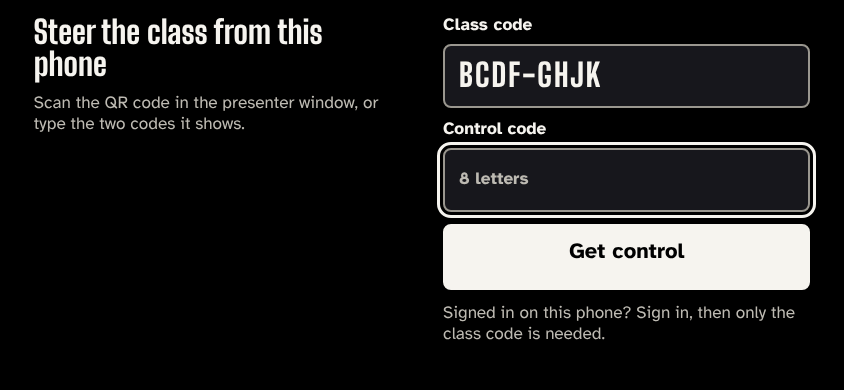
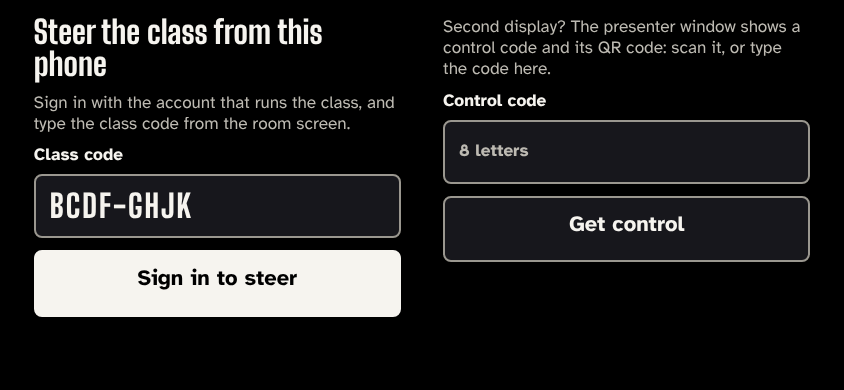
docs(design): companion review fixes: one-screen sign-in, new code after drop, guard-word gaps
Sign-in plus the room screen's class code is the usual way in; the control code and its QR
are second-display only and never on the room screen. Two phones already asks for a new code.
Contract gaps mark guard-word collisions as open questions. No-answer, interpolation, refused
hello, fallback errors and ADR 0005 section 8 hardening are written out.

Claude-Session: https://claude.ai/code/session_01V8DoTxwfzpAUiHqVx7SjRn

diff --git a/docs/design/mockups/companion-pages.js b/docs/design/mockups/companion-pages.js
@@ -99,35 +99,38 @@ add('worst-wide', 'Companion: worst case, wide cue', 'Worst case by width: a 120
   run(WORST() + cue(WIDE_CUE) + runKeys({ follow: true }), 'tighter'));
 
 // ---------- Getting control, and losing it ----------
-const SIGNIN = p('Signed in on this phone? Sign in, then only the class code is needed.', true);
-add('code', 'Companion: enter the codes', 'State: /control opened without a code (the QR code fills both fields and goes straight to "connecting"). Not signed in.',
-  page(h1('Steer the class from this phone') + p('Scan the QR code in the presenter window, or type the two codes it shows.', true),
-    field('Class code', { ph: '8 letters', value: 'BCDF-GHJK' }) + field('Control code', { ph: '8 letters', focus: true })
-    + key('control', 'Get control', { main: true, full: true }) + SIGNIN));
+// One screen first (plan section 3): the usual way in is sign-in plus the class code the room
+// screen shows. The control code exists only with a second display, in the presenter window.
+const SECOND = p('Second display? The presenter window shows a control code and its QR code: scan it, or type the code here.', true);
+add('code', 'Companion: get control', 'State: /control without a site session. Opened plain, or from a QR code of /control#<join code>, which only fills the class code. Sign-in is the way in; the control code is the second-display option.',
+  page(h1('Steer the class from this phone') + p('Sign in with the account that runs the class, and type the class code from the room screen.', true)
+    + field('Class code', { ph: '8 letters', value: 'BCDF-GHJK' }) + key('sign_in', 'Sign in to steer', { main: true, full: true }),
+    SECOND + field('Control code', { ph: '8 letters' }) + key('control', 'Get control', { full: true })));
 add('code-signed-in', 'Companion: signed in', 'State: /control with a site session. The class code names the class; the sign-in gives control.',
   page(h1('Steer the class from this phone') + T('label', 'Signed in as ana@example.com', 2, ' class="who"'),
     field('Class code', { ph: '8 letters', focus: true }) + key('control', 'Steer this class', { main: true, full: true })
-    + p('The class code is in the presenter window. Control needs the account that runs the class.', true)));
-add('code-wrong', 'Companion: code did not work', 'State: invalid_code from POST /api/live/control (unknown class, wrong, used or expired code: one answer). cannot_control on the sign-in route reads alike.',
-  page(h1('Steer the class from this phone') + p('Scan the QR code in the presenter window, or type the two codes it shows.', true),
-    field('Class code', { value: 'BCDF-GHJK' }) + field('Control code', { value: 'LMNP-QRST', error: 'That did not work. A control code works once, for 2 minutes. Ask the computer for a new one.' })
+    + p('The class code is on the room screen. Control needs the account that runs the class.', true)));
+add('code-wrong', 'Companion: code did not work', 'State: invalid_code from POST /api/live/control (unknown class, wrong, used or expired code: one answer). cannot_control on the sign-in route reads alike, with its own words.',
+  page(h1('Steer the class from this phone') + p('Sign in with the account that runs the class, and type the class code from the room screen.', true)
+    + field('Class code', { value: 'BCDF-GHJK' }) + key('sign_in', 'Sign in to steer', { main: true, full: true }),
+    SECOND + field('Control code', { value: 'LMNP-QRST', error: 'That did not work. A control code works once, for 2 minutes. Ask the computer for a new one.' })
+    + key('control', 'Get control', { full: true })));
+add('full', 'Companion: two phones already', 'State: controllers_full from POST /api/live/control: the code was right, both places are held. Dropping a phone ends that code (ADR 0005 section 3), so the field is cleared for a new one.',
+  page(h1('Two phones already steer this class') + p('The class goes on. Drop a phone on the computer, then ask it for a new control code.', true),
+    field('Class code', { value: 'BCDF-GHJK' }) + field('Control code', { ph: 'New code, 8 letters', focus: true })
     + key('control', 'Get control', { main: true, full: true })));
-add('full', 'Companion: two phones already', 'State: controllers_full from POST /api/live/control: the code was right, both places are held. The code is not used up.',
-  page(h1('Two phones already steer this class') + p('The class goes on. Drop a phone on the computer, then use the code again.', true),
-    field('Class code', { value: 'BCDF-GHJK' }) + field('Control code', { value: 'LMNP-QRST' })
-    + key('control', 'Try again', { main: true, full: true })));
 add('connecting', 'Companion: connecting', 'State: a controller token was given; the WebSocket is opening and waiting for the first state message.',
   page(h1('Connecting to the class') + `<div class="work" role="status">${T('minor', 'Getting the class from the computer', 2)}</div>`,
     key('cancel', 'Cancel', { full: true })));
 add('lost', 'Companion: not connected', 'State: no connection for 10 s. No countdown. The phone tries again by itself with its token; the class goes on on the computer.',
   page(plate('Not connected', 'The class goes on on the computer. Trying again…') + gel(4, 'Threshold', [], { down: true, label: 'Last seen 0:12 ago' }),
     key('reconnect', 'Try again now', { full: true }) + p('Nothing you press here reaches the class until the phone is back.', true)));
-add('dropped', 'Companion: control ended', 'State: ended, reason dropped (the computer freed this phone\'s place), or the token was refused on reconnect (the sign-in ended).',
-  page(h1('This phone no longer steers the class') + p('The computer ended its control, or your sign-in ended. The class goes on.', true),
-    key('get_control', 'Get control again', { full: true }) + p('You need a new control code from the computer, or your sign-in.', true)));
-add('ended', 'Companion: session ended', 'State: ended, reason host_ended, revoked or expired.',
-  page(h1('The class session has ended') + p('There is nothing more to steer.', true),
-    key('get_control', 'Steer another class', { full: true })));
+add('dropped', 'Companion: control ended', 'State: ended, reason dropped: the computer freed this phone\'s place.',
+  page(h1('This phone no longer steers the class') + p('The computer ended its control. The class goes on.', true),
+    key('get_control', 'Get control again', { full: true }) + p('Sign in again, or ask the computer for a new control code.', true)));
+add('ended', 'Companion: session ended', 'State: ended, reason host_ended, revoked or expired; or the token refused on reconnect (the live process restarted, or the sign-in ended: ADR 0005 section 6).',
+  page(h1('The class session has ended') + p('There is nothing more to steer from this phone. If the class is still running, get control again.', true),
+    key('get_control', 'Get control again', { full: true })));
 
 const NAMES = Object.keys(pages);
 if (require.main === module) {

diff --git a/docs/design/mockups/companion-code.html b/docs/design/mockups/companion-code.html
@@ -3,12 +3,12 @@
 <head>
 <meta charset="utf-8">
 <meta name="viewport" content="width=device-width, initial-scale=1, viewport-fit=cover">
-<title>Companion: enter the codes</title>
+<title>Companion: get control</title>
 <link rel="stylesheet" href="tokens.css">
 <link rel="stylesheet" href="companion.css">
 </head>
 <body>
-<!-- State: /control opened without a code (the QR code fills both fields and goes straight to "connecting"). Not signed in.  Spec: docs/design/companion.md. Generated by companion-pages.js: edit that, not this file. -->
-<main class="page"><div class="lead"><h1><span data-tier="value" data-lines="2">Steer the class from this phone</span></h1><p class="small"><span data-tier="label" data-lines="6">Scan the QR code in the presenter window, or type the two codes it shows.</span></p></div><div class="act"><div class="field"><span data-tier="label" data-lines="1" class="lab">Class code</span><div class="input"><span data-tier="value" data-lines="1">BCDF-GHJK</span></div></div><div class="field"><span data-tier="label" data-lines="1" class="lab">Control code</span><div class="input focus"><span class="ph"><span data-tier="label" data-lines="1">8 letters</span></span></div></div><button class="key main full" data-action="control"><span class="kl" data-tier="minor" data-lines="2">Get control</span></button><p class="small"><span data-tier="label" data-lines="6">Signed in on this phone? Sign in, then only the class code is needed.</span></p></div></main>
+<!-- State: /control without a site session. Opened plain, or from a QR code of /control#<join code>, which only fills the class code. Sign-in is the way in; the control code is the second-display option.  Spec: docs/design/companion.md. Generated by companion-pages.js: edit that, not this file. -->
+<main class="page"><div class="lead"><h1><span data-tier="value" data-lines="2">Steer the class from this phone</span></h1><p class="small"><span data-tier="label" data-lines="6">Sign in with the account that runs the class, and type the class code from the room screen.</span></p><div class="field"><span data-tier="label" data-lines="1" class="lab">Class code</span><div class="input"><span data-tier="value" data-lines="1">BCDF-GHJK</span></div></div><button class="key main full" data-action="sign_in"><span class="kl" data-tier="minor" data-lines="2">Sign in to steer</span></button></div><div class="act"><p class="small"><span data-tier="label" data-lines="6">Second display? The presenter window shows a control code and its QR code: scan it, or type the code here.</span></p><div class="field"><span data-tier="label" data-lines="1" class="lab">Control code</span><div class="input"><span class="ph"><span data-tier="label" data-lines="1">8 letters</span></span></div></div><button class="key full" data-action="control"><span class="kl" data-tier="minor" data-lines="2">Get control</span></button></div></main>
 </body>
 </html>

diff --git a/docs/design/mockups/companion-code-wrong.html b/docs/design/mockups/companion-code-wrong.html
@@ -8,7 +8,7 @@
 <link rel="stylesheet" href="companion.css">
 </head>
 <body>
-<!-- State: invalid_code from POST /api/live/control (unknown class, wrong, used or expired code: one answer). cannot_control on the sign-in route reads alike.  Spec: docs/design/companion.md. Generated by companion-pages.js: edit that, not this file. -->
-<main class="page"><div class="lead"><h1><span data-tier="value" data-lines="2">Steer the class from this phone</span></h1><p class="small"><span data-tier="label" data-lines="6">Scan the QR code in the presenter window, or type the two codes it shows.</span></p></div><div class="act"><div class="field"><span data-tier="label" data-lines="1" class="lab">Class code</span><div class="input"><span data-tier="value" data-lines="1">BCDF-GHJK</span></div></div><div class="field err"><span data-tier="label" data-lines="1" class="lab">Control code</span><div class="input"><span data-tier="value" data-lines="1">LMNP-QRST</span></div><div class="err-line" role="alert"><span data-tier="label" data-lines="4">That did not work. A control code works once, for 2 minutes. Ask the computer for a new one.</span></div></div><button class="key main full" data-action="control"><span class="kl" data-tier="minor" data-lines="2">Get control</span></button></div></main>
+<!-- State: invalid_code from POST /api/live/control (unknown class, wrong, used or expired code: one answer). cannot_control on the sign-in route reads alike, with its own words.  Spec: docs/design/companion.md. Generated by companion-pages.js: edit that, not this file. -->
+<main class="page"><div class="lead"><h1><span data-tier="value" data-lines="2">Steer the class from this phone</span></h1><p class="small"><span data-tier="label" data-lines="6">Sign in with the account that runs the class, and type the class code from the room screen.</span></p><div class="field"><span data-tier="label" data-lines="1" class="lab">Class code</span><div class="input"><span data-tier="value" data-lines="1">BCDF-GHJK</span></div></div><button class="key main full" data-action="sign_in"><span class="kl" data-tier="minor" data-lines="2">Sign in to steer</span></button></div><div class="act"><p class="small"><span data-tier="label" data-lines="6">Second display? The presenter window shows a control code and its QR code: scan it, or type the code here.</span></p><div class="field err"><span data-tier="label" data-lines="1" class="lab">Control code</span><div class="input"><span data-tier="value" data-lines="1">LMNP-QRST</span></div><div class="err-line" role="alert"><span data-tier="label" data-lines="4">That did not work. A control code works once, for 2 minutes. Ask the computer for a new one.</span></div></div><button class="key full" data-action="control"><span class="kl" data-tier="minor" data-lines="2">Get control</span></button></div></main>
 </body>
 </html>

diff --git a/docs/design/mockups/companion-full.html b/docs/design/mockups/companion-full.html
@@ -8,7 +8,7 @@
 <link rel="stylesheet" href="companion.css">
 </head>
 <body>
-<!-- State: controllers_full from POST /api/live/control: the code was right, both places are held. The code is not used up.  Spec: docs/design/companion.md. Generated by companion-pages.js: edit that, not this file. -->
-<main class="page"><div class="lead"><h1><span data-tier="value" data-lines="2">Two phones already steer this class</span></h1><p class="small"><span data-tier="label" data-lines="6">The class goes on. Drop a phone on the computer, then use the code again.</span></p></div><div class="act"><div class="field"><span data-tier="label" data-lines="1" class="lab">Class code</span><div class="input"><span data-tier="value" data-lines="1">BCDF-GHJK</span></div></div><div class="field"><span data-tier="label" data-lines="1" class="lab">Control code</span><div class="input"><span data-tier="value" data-lines="1">LMNP-QRST</span></div></div><button class="key main full" data-action="control"><span class="kl" data-tier="minor" data-lines="2">Try again</span></button></div></main>
+<!-- State: controllers_full from POST /api/live/control: the code was right, both places are held. Dropping a phone ends that code (ADR 0005 section 3), so the field is cleared for a new one.  Spec: docs/design/companion.md. Generated by companion-pages.js: edit that, not this file. -->
+<main class="page"><div class="lead"><h1><span data-tier="value" data-lines="2">Two phones already steer this class</span></h1><p class="small"><span data-tier="label" data-lines="6">The class goes on. Drop a phone on the computer, then ask it for a new control code.</span></p></div><div class="act"><div class="field"><span data-tier="label" data-lines="1" class="lab">Class code</span><div class="input"><span data-tier="value" data-lines="1">BCDF-GHJK</span></div></div><div class="field"><span data-tier="label" data-lines="1" class="lab">Control code</span><div class="input focus"><span class="ph"><span data-tier="label" data-lines="1">New code, 8 letters</span></span></div></div><button class="key main full" data-action="control"><span class="kl" data-tier="minor" data-lines="2">Get control</span></button></div></main>
 </body>
 </html>

diff --git a/docs/design/mockups/companion-code-signed-in.html b/docs/design/mockups/companion-code-signed-in.html
@@ -9,6 +9,6 @@
 </head>
 <body>
 <!-- State: /control with a site session. The class code names the class; the sign-in gives control.  Spec: docs/design/companion.md. Generated by companion-pages.js: edit that, not this file. -->
-<main class="page"><div class="lead"><h1><span data-tier="value" data-lines="2">Steer the class from this phone</span></h1><span data-tier="label" data-lines="2" class="who">Signed in as ana@example.com</span></div><div class="act"><div class="field"><span data-tier="label" data-lines="1" class="lab">Class code</span><div class="input focus"><span class="ph"><span data-tier="label" data-lines="1">8 letters</span></span></div></div><button class="key main full" data-action="control"><span class="kl" data-tier="minor" data-lines="2">Steer this class</span></button><p class="small"><span data-tier="label" data-lines="6">The class code is in the presenter window. Control needs the account that runs the class.</span></p></div></main>
+<main class="page"><div class="lead"><h1><span data-tier="value" data-lines="2">Steer the class from this phone</span></h1><span data-tier="label" data-lines="2" class="who">Signed in as ana@example.com</span></div><div class="act"><div class="field"><span data-tier="label" data-lines="1" class="lab">Class code</span><div class="input focus"><span class="ph"><span data-tier="label" data-lines="1">8 letters</span></span></div></div><button class="key main full" data-action="control"><span class="kl" data-tier="minor" data-lines="2">Steer this class</span></button><p class="small"><span data-tier="label" data-lines="6">The class code is on the room screen. Control needs the account that runs the class.</span></p></div></main>
 </body>
 </html>

diff --git a/docs/design/mockups/companion-dropped.html b/docs/design/mockups/companion-dropped.html
@@ -8,7 +8,7 @@
 <link rel="stylesheet" href="companion.css">
 </head>
 <body>
-<!-- State: ended, reason dropped (the computer freed this phone's place), or the token was refused on reconnect (the sign-in ended).  Spec: docs/design/companion.md. Generated by companion-pages.js: edit that, not this file. -->
-<main class="page"><div class="lead"><h1><span data-tier="value" data-lines="2">This phone no longer steers the class</span></h1><p class="small"><span data-tier="label" data-lines="6">The computer ended its control, or your sign-in ended. The class goes on.</span></p></div><div class="act"><button class="key full" data-action="get_control"><span class="kl" data-tier="minor" data-lines="2">Get control again</span></button><p class="small"><span data-tier="label" data-lines="6">You need a new control code from the computer, or your sign-in.</span></p></div></main>
+<!-- State: ended, reason dropped: the computer freed this phone's place.  Spec: docs/design/companion.md. Generated by companion-pages.js: edit that, not this file. -->
+<main class="page"><div class="lead"><h1><span data-tier="value" data-lines="2">This phone no longer steers the class</span></h1><p class="small"><span data-tier="label" data-lines="6">The computer ended its control. The class goes on.</span></p></div><div class="act"><button class="key full" data-action="get_control"><span class="kl" data-tier="minor" data-lines="2">Get control again</span></button><p class="small"><span data-tier="label" data-lines="6">Sign in again, or ask the computer for a new control code.</span></p></div></main>
 </body>
 </html>

diff --git a/docs/design/mockups/companion-ended.html b/docs/design/mockups/companion-ended.html
@@ -8,7 +8,7 @@
 <link rel="stylesheet" href="companion.css">
 </head>
 <body>
-<!-- State: ended, reason host_ended, revoked or expired.  Spec: docs/design/companion.md. Generated by companion-pages.js: edit that, not this file. -->
-<main class="page"><div class="lead"><h1><span data-tier="value" data-lines="2">The class session has ended</span></h1><p class="small"><span data-tier="label" data-lines="6">There is nothing more to steer.</span></p></div><div class="act"><button class="key full" data-action="get_control"><span class="kl" data-tier="minor" data-lines="2">Steer another class</span></button></div></main>
+<!-- State: ended, reason host_ended, revoked or expired; or the token refused on reconnect (the live process restarted, or the sign-in ended: ADR 0005 section 6).  Spec: docs/design/companion.md. Generated by companion-pages.js: edit that, not this file. -->
+<main class="page"><div class="lead"><h1><span data-tier="value" data-lines="2">The class session has ended</span></h1><p class="small"><span data-tier="label" data-lines="6">There is nothing more to steer from this phone. If the class is still running, get control again.</span></p></div><div class="act"><button class="key full" data-action="get_control"><span class="kl" data-tier="minor" data-lines="2">Get control again</span></button></div></main>
 </body>
 </html>

diff --git a/docs/design/mockups/companion-checks.js b/docs/design/mockups/companion-checks.js
@@ -29,7 +29,7 @@ function pageChecks() {
   // The contract's command actions (schema/live/v1/command.schema.json), exactly, and the page's
   // own actions that send no command. Nothing here controls equipment (rule 2).
   const COMMANDS = ['start', 'pause', 'resume', 'skip', 'nudge', 'undo_resync'];
-  const ACTIONS = COMMANDS.concat(['control', 'cancel', 'reconnect', 'get_control']);
+  const ACTIONS = COMMANDS.concat(['sign_in', 'control', 'cancel', 'reconnect', 'get_control']);
   // Presses that move the class on are held to confirm; stopping, the nudges and the undo are one touch.
   const HOLD = ['start', 'resume', 'skip'];
   const ONE_TOUCH = ['pause', 'nudge', 'undo_resync'];

diff --git a/docs/design/companion.md b/docs/design/companion.md
@@ -28,13 +28,19 @@ resistance, speed, incline or brake, no sensor, no Bluetooth. It is nothing to i
 ## Getting control (rule 14)
 
 Control needs **the instructor's sign-in** or **a one-time control code shown only in the
-presenter window**. A rider's join code alone never gives control (ADR 0005, section 3).
+presenter window**. A rider's join code alone never gives control (ADR 0005, section 3). One
+screen is the default (plan section 3, "One screen first"), so sign-in is the usual way in.
 
 | Way | What the instructor does | What the page sends |
 |---|---|---|
-| QR code (the usual way) | Scans the QR code in the presenter window: `https://<site>/control#<join code>.<control code>` | `POST /api/live/control` with `session` and `code`, at once; the page shows "Connecting" |
-| Typed codes | Types the class code and the control code the presenter window shows as text | The same |
-| Sign-in | Signed in on the phone with the account that runs the class; types the class code | `POST /api/live/controller` with `session` |
+| Sign-in (the usual way, one screen) | Signs in on the phone with the account that runs the class and types the class code the room screen shows | `POST /api/live/controller` with `session` |
+| `/control#<join code>` | Opens a link or QR code that carries the class code only | Nothing: the page fills the class code and offers sign-in; signed in, it shows "Steer this class" for one tap. The join code alone gives no control |
+| QR code (second display only) | Scans the QR code in the presenter window: `https://<site>/control#<join code>.<control code>` | `POST /api/live/control` with `session` and `code`, at once; the page shows "Connecting" |
+| Typed control code (second display only) | Types the class code and the control code the presenter window shows as text | The same |
+
+**Requirement:** the control code, and any QR code that carries it (`#<join code>.<control
+code>`), is shown only in the presenter window, never on the room screen, in one-screen mode
+too. The room screen shows the class code alone.
 
 - The fragment is read once and removed from the address bar at once. Codes are typed as
   `XXXX-XXXX`. The page ignores case, spaces and hyphens and sends the shown form. A code that is
@@ -46,8 +52,8 @@ presenter window**. A rider's join code alone never gives control (ADR 0005, sec
 - The controller token lives in `sessionStorage` only and is sent in `hello`. It is never in the
   address, never logged, never shown.
 - **For the presenter window (PL5 spec):** besides the QR code it must show both codes as text,
-  labelled "Class code" and "Control code", so the typed way works. One display has no control
-  code: the page offers sign-in only.
+  labelled "Class code" and "Control code", so the typed way works. When the app offers no
+  control code (one display), the phone uses sign-in.
 
 ## Content, in priority order
 
@@ -232,7 +238,8 @@ computer does that.
     `not_allowed` ([refused](mockups/companion-refused-390x844.png));
   - "Too late, try again" for `stale`, `stale_run`, `invalid` and `rate`;
   - "Not connected" for `host_away`.
-- **No `ack` within 3 s:** treated as "Too late, try again".
+- **No `ack` within 3 s:** the key returns and the notice says "No answer. Check the class."
+  An `ack` or a state that arrives later wins: it replaces the notice at once.
 - **Vibration:** 30 ms where the browser offers it, to mark a fired hold. It is never the only
   feedback.
 
@@ -245,17 +252,21 @@ Every state has a mock-up and screenshots at 390 × 844 and 844 × 390, and is c
 
 | State | When | What the page shows | Mock-up |
 |---|---|---|---|
-| Enter the code | `/control` opened without a usable fragment, not signed in | "Steer the class from this phone", Class code and Control code fields, "Get control"; a line that signing in needs only the class code | [html](mockups/companion-code.html), [portrait](mockups/companion-code-390x844.png), [landscape](mockups/companion-code-844x390.png) |
+| Enter the code | `/control` opened not signed in, plain or with `#<join code>` (which fills the class code) | "Steer the class from this phone"; "Sign in with the account that runs the class, and type the class code from the room screen."; the Class code field and "Sign in to steer" first; below, the second-display line and the Control code field with "Get control" | [html](mockups/companion-code.html), [portrait](mockups/companion-code-390x844.png), [landscape](mockups/companion-code-844x390.png) |
 | Enter the code, signed in | The same with a site session | "Signed in as …", the Class code field, "Steer this class" | [html](mockups/companion-code-signed-in.html), [portrait](mockups/companion-code-signed-in-390x844.png), [landscape](mockups/companion-code-signed-in-844x390.png) |
 | Code did not work | `invalid_code` or `cannot_control` | The fields kept, and under the control code: "That did not work. A control code works once, for 2 minutes. Ask the computer for a new one." Signed in, it says instead: "This phone cannot steer that class. Check the class code and that you are signed in with the account that runs it." | [html](mockups/companion-code-wrong.html), [portrait](mockups/companion-code-wrong-390x844.png), [landscape](mockups/companion-code-wrong-844x390.png) |
-| Two phones already | `controllers_full`: the code was right, but both places are held. The code is not used up | "Two phones already steer this class. Drop a phone on the computer, then use the code again." "Try again" | [html](mockups/companion-full.html), [portrait](mockups/companion-full-390x844.png), [landscape](mockups/companion-full-844x390.png) |
+| Two phones already | `controllers_full`: both places are held. The code is not used up while they are, but a Drop ends it (ADR 0005, section 3), so a new code is needed | "Two phones already steer this class. The class goes on. Drop a phone on the computer, then ask it for a new control code." The class code is kept and the control-code field is cleared for the new code; "Get control". Signed in, the same without the control-code field: "Drop a phone on the computer, then tap Steer this class." | [html](mockups/companion-full.html), [portrait](mockups/companion-full-390x844.png), [landscape](mockups/companion-full-844x390.png) |
 | Connecting | A controller token was given; `hello` sent, waiting for `welcome` and the first `companion_state` | "Connecting to the class", a hollow circle, Cancel | [html](mockups/companion-connecting.html), [portrait](mockups/companion-connecting-390x844.png), [landscape](mockups/companion-connecting-844x390.png) |
 | Connected | The first `companion_state` arrived | The class view in the state the class is in (below) | |
 | Reconnecting | The phone's own connection dropped, under 10 s ago | Plate "Reconnecting"; the countdown runs on from the last state, dimmed and dashed, labelled "Not live"; the keys give way to "Keys work again when the phone is back" | [html](mockups/companion-reconnecting.html), [portrait](mockups/companion-reconnecting-390x844.png), [landscape](mockups/companion-reconnecting-844x390.png) |
 | Computer not connected | `host_status` `connected` false | Plate "Computer not connected"; the same "Not live" view for 10 s, then the not-connected view with no countdown; the keys: "Keys work again when the computer is back" | [html](mockups/companion-host-away.html), [portrait](mockups/companion-host-away-390x844.png), [landscape](mockups/companion-host-away-844x390.png) |
 | Not connected | 10 s without a connection (ADR 0005, section 6) | Plate "Not connected. The class goes on on the computer. Trying again…"; the last zone seen, lights down, with "Last seen 0:12 ago"; no countdown; "Try again now". It reconnects by itself with its token: after 1 and 2 s, then every 5 s | [html](mockups/companion-lost.html), [portrait](mockups/companion-lost-390x844.png), [landscape](mockups/companion-lost-844x390.png) |
-| Control ended | `ended` with reason `dropped` (the computer freed this phone's place), or `hello` refused on reconnect (the token ended with its site session) | "This phone no longer steers the class"; "Get control again" | [html](mockups/companion-dropped.html), [portrait](mockups/companion-dropped-390x844.png), [landscape](mockups/companion-dropped-844x390.png) |
-| Session ended | `ended` with reason `host_ended`, `revoked` or `expired` | "The class session has ended. There is nothing more to steer." "Steer another class" | [html](mockups/companion-ended.html), [portrait](mockups/companion-ended-390x844.png), [landscape](mockups/companion-ended-844x390.png) |
+| Control ended | `ended` with reason `dropped` (the computer freed this phone's place) | "This phone no longer steers the class. The computer ended its control. The class goes on."; "Get control again"; "Sign in again, or ask the computer for a new control code." | [html](mockups/companion-dropped.html), [portrait](mockups/companion-dropped-390x844.png), [landscape](mockups/companion-dropped-844x390.png) |
+| Session ended | `ended` with reason `host_ended`, `revoked` or `expired`; or `hello` refused on reconnect (the live process restarted or the sign-in ended: ADR 0005, section 6) | "The class session has ended. There is nothing more to steer from this phone. If the class is still running, get control again."; "Get control again" | [html](mockups/companion-ended.html), [portrait](mockups/companion-ended-390x844.png), [landscape](mockups/companion-ended-844x390.png) |
+
+| Something went wrong | `invalid_request` or `internal_error` from an HTTP route | The fields kept, and the line "Something went wrong. Try again." with "Get control" or "Sign in to steer" as before. No mock-up of its own: it is the Code did not work layout with this line | see [code-wrong](mockups/companion-code-wrong-390x844.png) |
+
+A socket that closes without `ended` is treated as Reconnecting.
 
 The class never depends on the phone. Wherever a state could worry the instructor, it says "The
 class goes on". A `companion_state` with a lower `seq` in the same `run` is ignored. One with a
@@ -354,8 +365,11 @@ beyond the merged contract. Where a field it would like is missing, it shows wha
 below say, and "Contract gaps" lists the additions.
 
 - **Countdown between messages:** the page counts down from `now.remainingMs` from the moment
-  the state arrived, at most 3 s past it (states come at least once a second), and freezes unless
-  `status` is `running`.
+  the state arrived, and only while `status` is `running`. States come at least once a second.
+  While connected it runs live for at most 3 s past the last state. After that, and while
+  Reconnecting or Computer not connected, it is marked "Not live" (dimmed, dashed) and runs on
+  until 10 s after the last state; then it goes and the Not connected view shows no countdown
+  (ADR 0005, section 6).
 - **Estimated:** derived from `link.state` `coasting` or `off_the_list`.
 - **Last interval:** derived from `next` being empty.
 - **Song change:** given in time, never in bars.
@@ -367,19 +381,32 @@ below say, and "Contract gaps" lists the additions.
 None of these is needed for the page to work. Each would add something the instructor would use,
 and each needs a contract pull request and an ADR 0005 amendment before the page can show it.
 
-| Proposal | Where | What the page would show | Without it |
-|---|---|---|---|
-| Cadence (an RPM range or "on the beat"), position, and for running classes the incline word, per interval | `now`, `next[]` | Cadence and position beside the countdown and in the next rows, as on the room screen | Nothing. The cue carries them when the class author writes them |
-| Zone targets (%FTP, RPE, %HRmax) | `now.zone` | The targets under the zone name on the gel | Number and name only |
-| Bars and beats to the song change, while it lies in a song with beat anchors and the clock is not estimated | `nextSong` | "in 37 bars", "in 3 beats" | Time only: "in 1:22" |
-| The interval's FTP-test flag | `now`, `next[]` | The outlined "FTP test" tag | No tag |
-| The class title | `companion_state`, before the start and at the end | The title on "Before the start" and "Class complete" | The first cue; the class length |
-| The music app's name | `link` | "Following Spotify" | "Following the music" |
-| An `ended` reason for a controller whose site session ended | `ended.reason` | "Your sign-in ended" | The `hello` refusal on reconnect leads to "This phone no longer steers the class" |
+**Guard words.** Rows marked "Guard: open question" name things whose plain words are on the rule
+guards' word lists (`equipment-words.txt`: cadence, rpm, incline, target(s); `rider-words.txt`:
+ftp, hr, heart). They are open questions for the Orchestrator and `docs/owner.md`, not routine
+contract pull requests. They may land only with every guard list unchanged and without a field
+renamed to dodge a guard word. Until then the page shows what the "Without it" column says.
+
+| Proposal | Where | What the page would show | Without it | Guard |
+|---|---|---|---|---|
+| Cadence (an RPM range or "on the beat"), position, and for running classes the incline word, per interval | `now`, `next[]` | Cadence and position beside the countdown and in the next rows, as on the room screen | Nothing. The cue carries them when the class author writes them | Open question: cadence, rpm, incline |
+| Zone targets (%FTP, RPE, %HRmax) | `now.zone` | The targets under the zone name on the gel | Number and name only | Open question: target(s), ftp, hr, heart |
+| Bars and beats to the song change, while it lies in a song with beat anchors and the clock is not estimated | `nextSong` | "in 37 bars", "in 3 beats" | Time only: "in 1:22" | None |
+| The interval's FTP-test flag | `now`, `next[]` | The outlined "FTP test" tag | No tag | Open question: ftp |
+| The class title | `companion_state`, before the start and at the end | The title on "Before the start" and "Class complete" | The first cue; the class length | None |
+| The music app's name | `link` | "Following Spotify" | "Following the music" | None |
+| An `ended` reason for a controller whose site session ended | `ended.reason` | "Your sign-in ended" | The `hello` refusal on reconnect leads to "The class session has ended" | None |
 
 None of these proposals adds rider data, a token or code, the join code, or anything that sets
-resistance, speed, incline, a brake or any other equipment value. The incline word is shown to
-the instructor; the phone never sends it.
+an equipment value. Whatever the instructor reads, the phone never sends.
+
+## Page hardening (for the phone page issue)
+
+From ADR 0005, section 8, for the page that builds this spec:
+
+- a Content-Security-Policy with no third-party origins;
+- `Referrer-Policy: no-referrer`;
+- `history.replaceState` removes the fragment before any other script runs.
 
 ## What the page never shows or does (plan section 3)
 
@@ -397,5 +424,5 @@ the instructor; the phone never sends it.
 | 11. Nothing from past sessions | None |
 | 12. No camera | The phone's own camera app reads the QR code and opens the address; the page itself never asks for the camera |
 | 13. Rider data one way | No rider data, count or list on this page; `companion_state` has no rider field |
-| 14. Join code is a session id only | Control by sign-in or a control code from the presenter window only |
+| 14. Join code is a session id only | Control by sign-in, or by a control code shown only in the presenter window; `/control#<join code>` fills the class code and nothing more |
 | 15. No team games | None |
